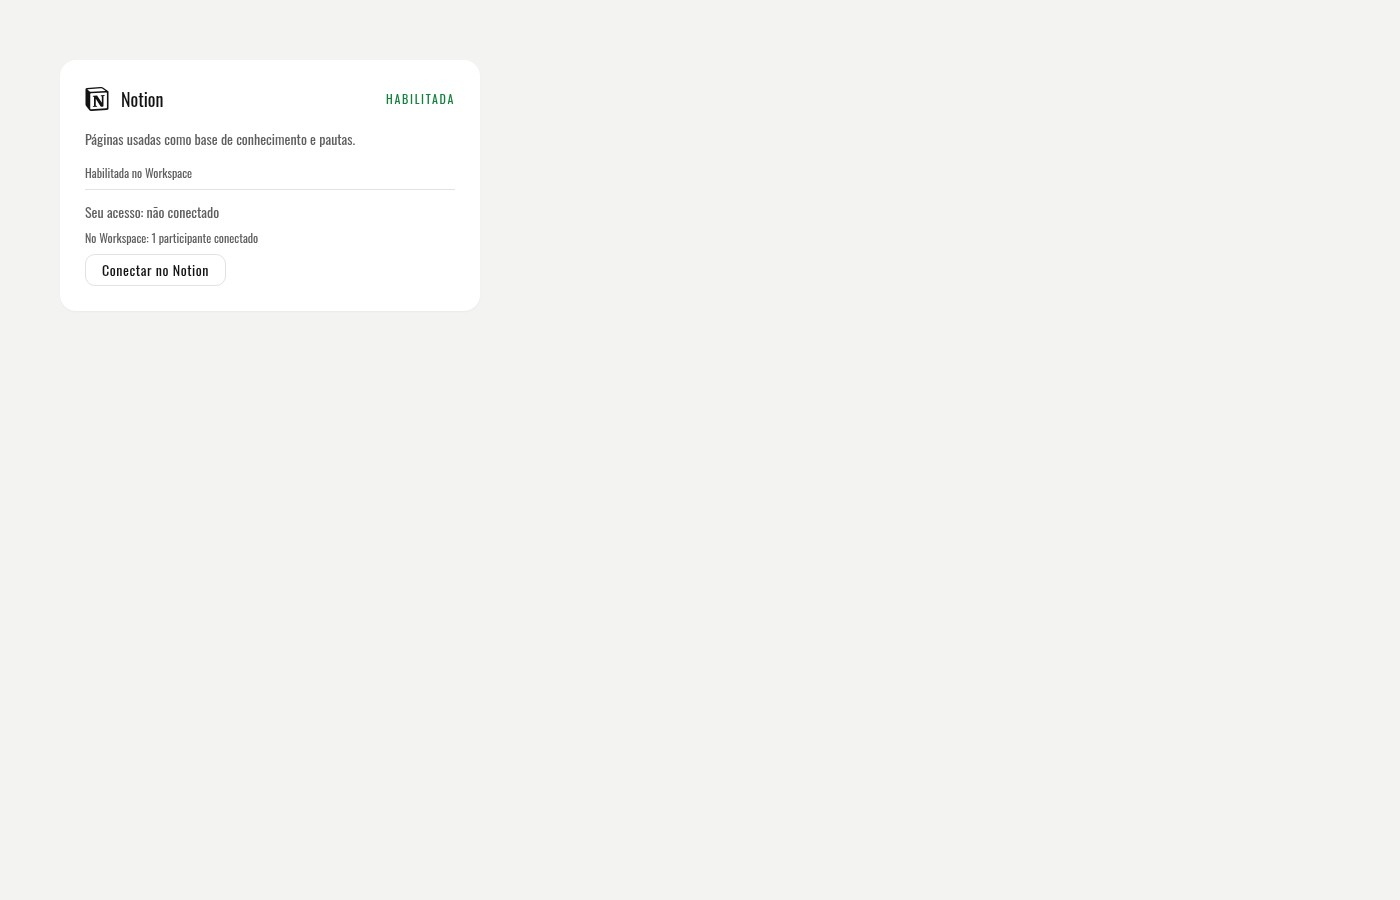
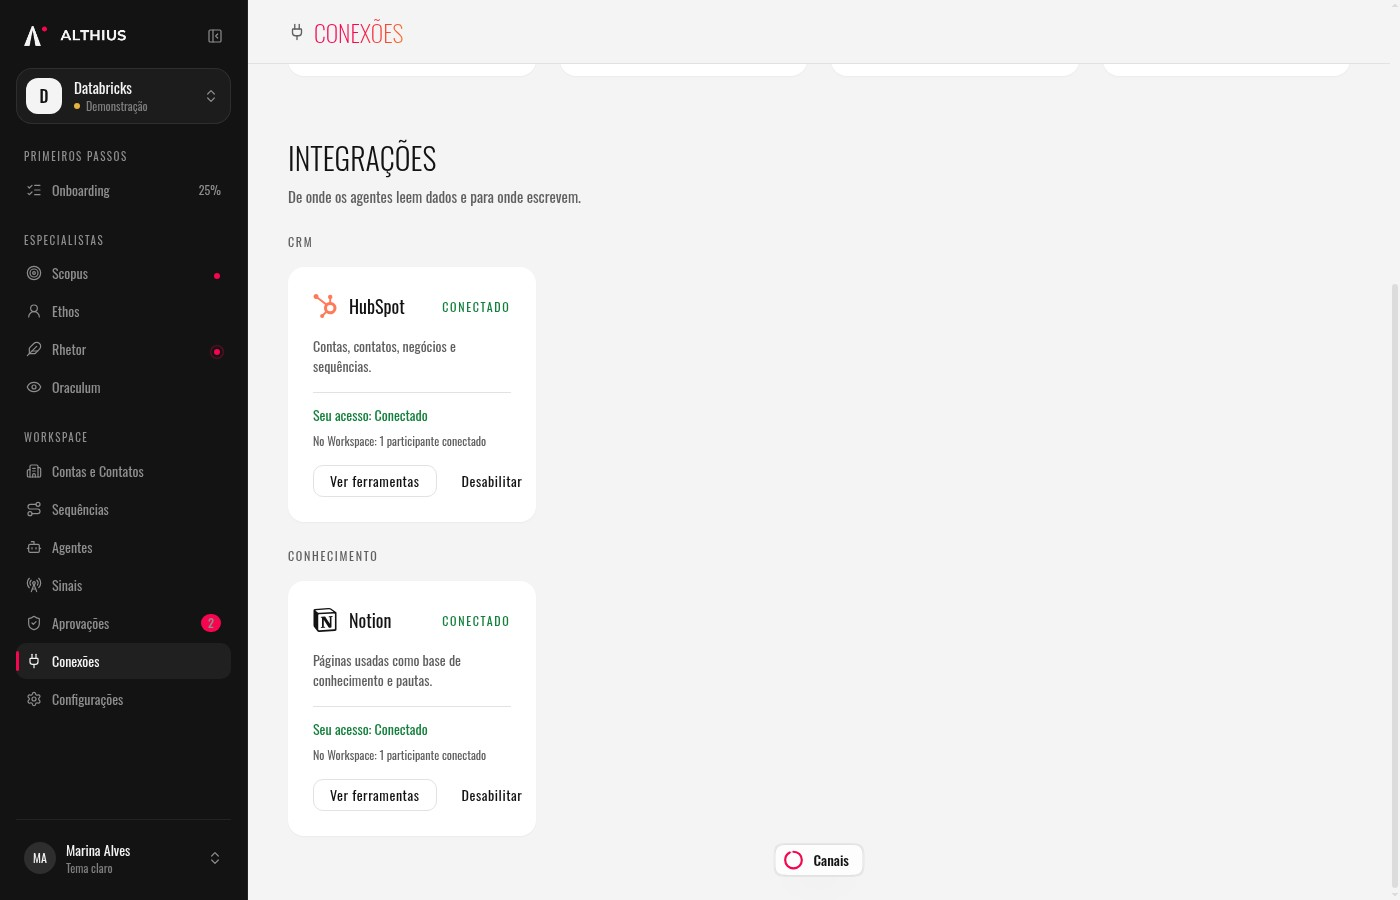
fix(conexoes): mostra "Seu acesso"/"No Workspace" também na Demonstração
Corrige achado [DEVE CORRIGIR] da revisão cruzada: o bloco rotulado só existia
em SeuAcesso (modo real). Integrações na Demonstração usam CartaoDeConexaoDemo,
que não tinha o bloco; o AC estava marcado [x] sem estar atendido e o print do
Notion era de um card real isolado.

Extrai textoNoWorkspace(conectados) e adiciona um prop opcional `acesso` em
CartaoDeConexaoDemo, passado só no branch de Integrações (Canais ficam iguais).
Teste vermelho-primeiro em conexoes-acesso-demonstracao.test.tsx e print
1400x900 refeito mostrando a Demonstração de verdade.

diff --git a/projeto-althius-frontend/src/paginas/conexoes.tsx b/projeto-althius-frontend/src/paginas/conexoes.tsx
@@ -285,6 +285,10 @@ export function PaginaConexoes() {
                         descricao={integracao.descricao}
                         conectado={integracao.habilitada}
                         aoConectar={() => setConectando(integracao)}
+                        acesso={{
+                          seuAcesso: integracao.habilitada ? 'Seu acesso: Conectado' : 'Seu acesso: não conectado',
+                          noWorkspace: textoNoWorkspace(integracao.habilitada ? 1 : 0),
+                        }}
                         extra={
                           integracao.habilitada && (
                             <>
@@ -560,6 +564,13 @@ const AVISO_DE_RECONEXAO: Partial<Record<IntegracaoId, string>> = {
   'tiktok-ads': 'O TikTok pede uma nova autorização a cada 30 dias.',
 }
 
+// Singular só em 1; 0 e qualquer outro valor ficam no plural (ex.: "No Workspace: 0 participantes conectados").
+function textoNoWorkspace(conectados: number): string {
+  return conectados === 1
+    ? 'No Workspace: 1 participante conectado'
+    : `No Workspace: ${conectados} participantes conectados`
+}
+
 function SeuAcesso({
   id,
   nome,
@@ -581,10 +592,7 @@ function SeuAcesso({
 }) {
   const porAutorizacao = acesso.caminhos.includes('autorizacao')
   const porChave = acesso.caminhos.includes('chave')
-  const noWorkspace =
-    acesso.conectados === 1
-      ? 'No Workspace: 1 participante conectado'
-      : `No Workspace: ${acesso.conectados} participantes conectados`
+  const noWorkspace = textoNoWorkspace(acesso.conectados)
 
   return (
     <div className="flex flex-col gap-2 border-t border-al-line pt-3">
@@ -816,6 +824,7 @@ function CartaoDeConexaoDemo({
   conectado,
   aoConectar,
   extra,
+  acesso,
 }: {
   nome: string
   descricao: string
@@ -823,6 +832,8 @@ function CartaoDeConexaoDemo({
   aoConectar: () => void
   extra?: React.ReactNode
   logo?: React.ReactNode
+  /** Nas Integrações, os mesmos textos rotulados do cartão real (SeuAcesso); Canais não usam este bloco. */
+  acesso?: { seuAcesso: string; noWorkspace: string }
 }) {
   return (
     <article aria-label={nome} className="cartao flex flex-col gap-4 p-6">
@@ -833,6 +844,12 @@ function CartaoDeConexaoDemo({
         </span>
       </div>
       <p className="text-sm text-al-muted">{descricao}</p>
+      {acesso && (
+        <div className="flex flex-col gap-2 border-t border-al-line pt-3">
+          <span className={conectado ? 'text-sm text-al-sucesso' : 'text-sm text-al-muted'}>{acesso.seuAcesso}</span>
+          <span className="text-xs text-al-muted">{acesso.noWorkspace}</span>
+        </div>
+      )}
       <div className="mt-auto flex gap-2">
         {!conectado && (
           <Button variant="outline" onClick={aoConectar} className="px-4">

diff --git a/projeto-althius-frontend/src/paginas/conexoes-acesso-demonstracao.test.tsx b/projeto-althius-frontend/src/paginas/conexoes-acesso-demonstracao.test.tsx
@@ -1,0 +1,34 @@
+import { cleanup, screen, within } from '@testing-library/react'
+import { afterEach, describe, expect, it } from 'vitest'
+import { renderizarApp } from '@/test/renderizar'
+
+// Achado da revisão cruzada (conexoes-clareza-01): o bloco "Seu acesso" / "No Workspace" só existia no cartão real
+// (CartaoDeIntegracaoReal → SeuAcesso). Na Demonstração, as Integrações usam CartaoDeConexaoDemo, que não rotulava
+// nada disso. Este teste garante que a Demonstração mostra os mesmos textos do Workspace operacional.
+
+afterEach(() => {
+  cleanup()
+  window.history.replaceState(null, '', '/')
+})
+
+describe('Na Demonstração, o cartão de Integração mostra "Seu acesso" e "No Workspace" como no Workspace operacional', () => {
+  it('conectado, mostra "Seu acesso: Conectado" e "No Workspace: 1 participante conectado"', async () => {
+    renderizarApp('/conexoes')
+
+    const cartao = await screen.findByRole('article', { name: 'Notion' })
+    expect(within(cartao).getByText('Seu acesso: Conectado')).toBeInTheDocument()
+    expect(within(cartao).getByText('No Workspace: 1 participante conectado')).toBeInTheDocument()
+  })
+
+  it('desconectado, mostra "Seu acesso: não conectado" e "No Workspace: 0 participantes conectados"', async () => {
+    const { usuario } = renderizarApp('/conexoes')
+
+    const cartao = await screen.findByRole('article', { name: 'HubSpot' })
+    await usuario.click(within(cartao).getByRole('button', { name: 'Desabilitar' }))
+    const dialogo = await screen.findByRole('dialog', { name: 'Desabilitar HubSpot' })
+    await usuario.click(within(dialogo).getByRole('button', { name: 'Desabilitar' }))
+
+    expect(await within(cartao).findByText('Seu acesso: não conectado')).toBeInTheDocument()
+    expect(within(cartao).getByText('No Workspace: 0 participantes conectados')).toBeInTheDocument()
+  })
+})

diff --git a/.scratch/handoffs/conexoes-clareza-01.md b/.scratch/handoffs/conexoes-clareza-01.md
@@ -3,50 +3,69 @@
 ## Estado
 
 **Concluído e commitado.** Branch `ralph/conexoes-clareza-01-seu-acesso`, worktree
-`/workspace/ralph-wt/conexoes-clareza-01`. Commit `47c6140`.
+`/workspace/ralph-wt/conexoes-clareza-01`. Commits `47c6140`, `66c2add` (sessão anterior)
++ um novo commit desta sessão.
 
-Esta sessão era um retry: uma sessão anterior tinha deixado o trabalho pronto mas
-não commitado (morreu durante a limpeza final, sem handoff). Eu revisei o trabalho
-dela contra o ticket, confirmei o vermelho (rodei o teste novo com `git stash` só de
-`conexoes.tsx`, vi os 3 testes falharem, restaurei), rodei lint/tsc/vitest, rodei
-`/code-review` (dois eixos: Standards e Spec, ambos sem findings bloqueantes), e então
-commitei, atualizei o ticket (AC, Status, comentário) e escrevi o PR.
+Esta sessão era uma **correção** de um achado [DEVE CORRIGIR] da revisão cruzada (Codex)
+contra o trabalho da sessão anterior: o AC "Demonstração mostra o mesmo texto" estava
+marcado `[x]` sem estar atendido. O bloco "Seu acesso" / "No Workspace" só existia em
+`SeuAcesso` (usado por `CartaoDeIntegracaoReal`, modo `real`). Em Integrações no modo
+Demonstração, `conexoes.tsx` renderiza `CartaoDeConexaoDemo` — um componente totalmente
+separado, sem o bloco. O print `01-notion.jpg` também era de um card real isolado, não
+da Demonstração.
 
-## O que foi feito
+## O que foi feito nesta sessão
 
-- `projeto-althius-frontend/src/paginas/conexoes.tsx:563-603` (componente `SeuAcesso`):
-  o bloco de Acesso agora rotula as duas leituras — "Seu acesso: não conectado | Conectado
-  [como …] | Precisa reconectar" numa linha, "No Workspace: N participante(s) conectado(s)"
-  em outra, com singular/plural corretos em 0, 1, n.
-- Teste novo `projeto-althius-frontend/src/paginas/conexoes-acesso-vs-workspace.test.tsx`:
-  cobre os três estados de Acesso cruzados com 0/1/3 participantes.
-- ~15 `conexoes-*.test.tsx` existentes: só as asserções do texto antigo do Acesso foram
-  trocadas pelo texto novo (sem mexer em lógica/seletores de teste).
-- Print 1400×900 do card do Notion em
-  `.scratch/conexoes-clareza-do-acesso/issues/prints/01-notion.jpg` (Chrome headless,
-  modo Demonstração).
-- Ticket atualizado: todos os 5 AC marcados `[x]`, Status → `done`, comentário datado
-  2026-10-24 com o resumo e os testes.
-- PR body em `.scratch/handoffs/conexoes-clareza-01-pr.md` (não abri PR, não fiz push —
-  a matriz faz isso).
+- `projeto-althius-frontend/src/paginas/conexoes.tsx`:
+  - Extraída a função `textoNoWorkspace(conectados)` (a regra de singular/plural que
+    antes só existia dentro de `SeuAcesso`), reaproveitada em `SeuAcesso` e no novo
+    bloco da Demonstração.
+  - `CartaoDeConexaoDemo` (linha ~812) ganhou um prop opcional
+    `acesso?: { seuAcesso: string; noWorkspace: string }`: quando presente, renderiza o
+    mesmo bloco rotulado (borda superior, mesmas classes de cor) do cartão real.
+  - O prop só é passado no branch de **Integrações** (linha ~288-291):
+    conectado → "Seu acesso: Conectado" / "No Workspace: 1 participante conectado";
+    não conectado → "Seu acesso: não conectado" / "No Workspace: 0 participantes
+    conectados". A Fonte simulada (`simulada-conexoes.ts`) não guarda uma contagem real
+    de participantes por Integração, então uso o fallback 1/0 coerente que o próprio
+    achado da revisão autorizava ("ou 1/0 coerente").
+  - O branch de **Canais** continua chamando `CartaoDeConexaoDemo` sem o prop `acesso`,
+    então não mudou nada visualmente ali.
+  - `fonte/supabase-conexoes.ts` não foi tocado.
+- Teste novo `projeto-althius-frontend/src/paginas/conexoes-acesso-demonstracao.test.tsx`:
+  2 casos (conectado e não conectado) via `renderizarApp('/conexoes')` (mesmo padrão dos
+  outros testes de Conexões em modo demonstração). Confirmei o vermelho antes da correção
+  (`git stash` só de `conexoes.tsx`, os 2 testes falharam), depois apliquei a mudança e
+  os 2 passaram.
+- Print 1400×900 refeito em
+  `.scratch/conexoes-clareza-do-acesso/issues/prints/01-notion.jpg`: agora é da página de
+  Conexões **na Demonstração** (antes era de um card real isolado), mostrando o card do
+  Notion com "Seu acesso: Conectado" e "No Workspace: 1 participante conectado". Tirado
+  com Vite numa porta livre (5180) e Chrome headless (`--remote-debugging-port` + CDP
+  `Page.captureScreenshot` via `WebSocket` nativo do Node 22, porque o `--screenshot` da
+  CLI do Chrome tende a travar); Vite e Chrome encerrados pelos PIDs ao final (sem
+  `pkill -f`/`killall`).
+- Ticket atualizado: novo comentário datado 2026-10-24 explicando a correção; os 5 AC
+  continuam `[x]`, agora verificados de verdade.
+- PR body reescrito em `/workspace/ralph-wt/_pr/conexoes-clareza-01.md` (fora do repo).
+  Apaguei `.scratch/handoffs/conexoes-clareza-01-pr.md` (antigo local do corpo do PR,
+  que não deve ficar versionado dentro do repo).
 
 ## Testes (todos verdes)
 
-- `npx vitest run --maxWorkers=2 src/paginas/conexoes` → 194 passed (21 arquivos;
-  baseline era 191 + 3 novos).
+- `npx vitest run --maxWorkers=2 src/paginas/conexoes` → 196 passed (22 arquivos;
+  194 da sessão anterior + 2 novos desta correção).
 - `npx oxlint` → exit 0, sem erros/avisos novos nos arquivos tocados.
 - `npx tsc -b` → sem output, sem erros.
-- Vermelho confirmado antes da correção: o teste novo falhava nos 3 casos sem a
-  mudança em `conexoes.tsx`.
+- `/code-review` (eixos Standards e Spec, rodados em paralelo): nenhum finding
+  bloqueante. Standards: um único ponto de julgamento (leve "data clump" nas duas
+  strings do prop `acesso`), aceitável no escopo atual. Spec: achado atendido
+  integralmente; única observação é que a Demonstração nunca mostra plural com N>1
+  (porque a Fonte simulada não tem contagem real), o que o próprio achado já autorizava
+  como alternativa ("ou 1/0 coerente").
 
 ## Pendências / próximos passos
 
 - Nenhuma pendência no escopo deste ticket. Sem migration (ticket é só frontend).
 - A matriz/CI deve: revisar o diff, abrir o PR com o corpo de
-  `.scratch/handoffs/conexoes-clareza-01-pr.md`, e fazer push.
-
-## Skills sugeridas para a próxima sessão (se for revisão)
-
-- `code-review` — já rodado uma vez nesta sessão (0 findings bloqueantes nos dois eixos),
-  mas pode valer uma segunda passada antes do merge.
-- `pr` — corpo já escrito, só falta abrir.
+  `/workspace/ralph-wt/_pr/conexoes-clareza-01.md`, e fazer push.

diff --git a/.scratch/conexoes-clareza-do-acesso/issues/01-seu-acesso-e-o-workspace-no-card.md b/.scratch/conexoes-clareza-do-acesso/issues/01-seu-acesso-e-o-workspace-no-card.md
@@ -48,3 +48,15 @@ Teste novo `conexoes-acesso-vs-workspace.test.tsx` cobre os três estados de Ace
 Demonstração usa o mesmo componente `SeuAcesso` (não há texto duplicado fora dele), então mostra o mesmo texto por construção. Print 1400×900 do card do Notion tirado via Chrome headless, salvo em `issues/prints/01-notion.jpg`, mostrando "Seu acesso: não conectado" e "No Workspace: 1 participante conectado" lado a lado.
 
 Testes: `npx vitest run --maxWorkers=2 src/paginas/conexoes` → 194 passed (21 arquivos, baseline 191 + 3 novos). `npx oxlint` e `npx tsc -b` sem erros.
+
+## Comentário (2026-10-24) — correção de um achado da revisão cruzada
+
+A revisão cruzada (Codex) achou que o comentário acima estava errado: a Demonstração **não** usa `SeuAcesso`. Em Integrações, o modo Demonstração (`modo !== 'real'`) renderiza `CartaoDeConexaoDemo` (`conexoes.tsx` ~linha 281), um componente totalmente separado que não tinha o bloco "Seu acesso" / "No Workspace". O AC "Demonstração mostra o mesmo texto" estava marcado `[x]` sem estar atendido, e o print `01-notion.jpg` era de um card real isolado (não da Demonstração).
+
+Corrigido: extraída a função `textoNoWorkspace(conectados)` (a mesma regra de singular/plural de `SeuAcesso`) e adicionado um prop opcional `acesso?: { seuAcesso; noWorkspace }` em `CartaoDeConexaoDemo` (`conexoes.tsx:812-846`). Esse prop só é passado no branch de Integrações (`conexoes.tsx:288-291`): conectado → "Seu acesso: Conectado" / "No Workspace: 1 participante conectado"; não conectado → "Seu acesso: não conectado" / "No Workspace: 0 participantes conectados" (a Fonte simulada não guarda uma contagem real de participantes por Integração, então uso o fallback 1/0 coerente que o achado autorizou). A seção Canais usa o mesmo `CartaoDeConexaoDemo` mas sem o prop `acesso`, então continua exatamente como estava. `fonte/supabase-conexoes.ts` não foi tocado.
+
+Teste vermelho primeiro: `conexoes-acesso-demonstracao.test.tsx` (2 casos, conectado e não conectado) — confirmei que falha sem a mudança em `conexoes.tsx` (via `git stash` só desse arquivo), depois corrigi e o teste passou.
+
+Print 1400×900 refeito em `issues/prints/01-notion.jpg`: agora mostra a página de Conexões **na Demonstração** (Chrome headless, `--remote-debugging-port` + CDP `Page.captureScreenshot` via WebSocket do Node 22; Vite e Chrome encerrados pelo PID ao final), com o card do Notion mostrando "Seu acesso: Conectado" e "No Workspace: 1 participante conectado".
+
+Testes: `npx vitest run --maxWorkers=2 src/paginas/conexoes` → 196 passed (22 arquivos, 194 + 2 novos). `npx oxlint` e `npx tsc -b` sem erros. `/code-review` (Standards e Spec) sem findings bloqueantes.
